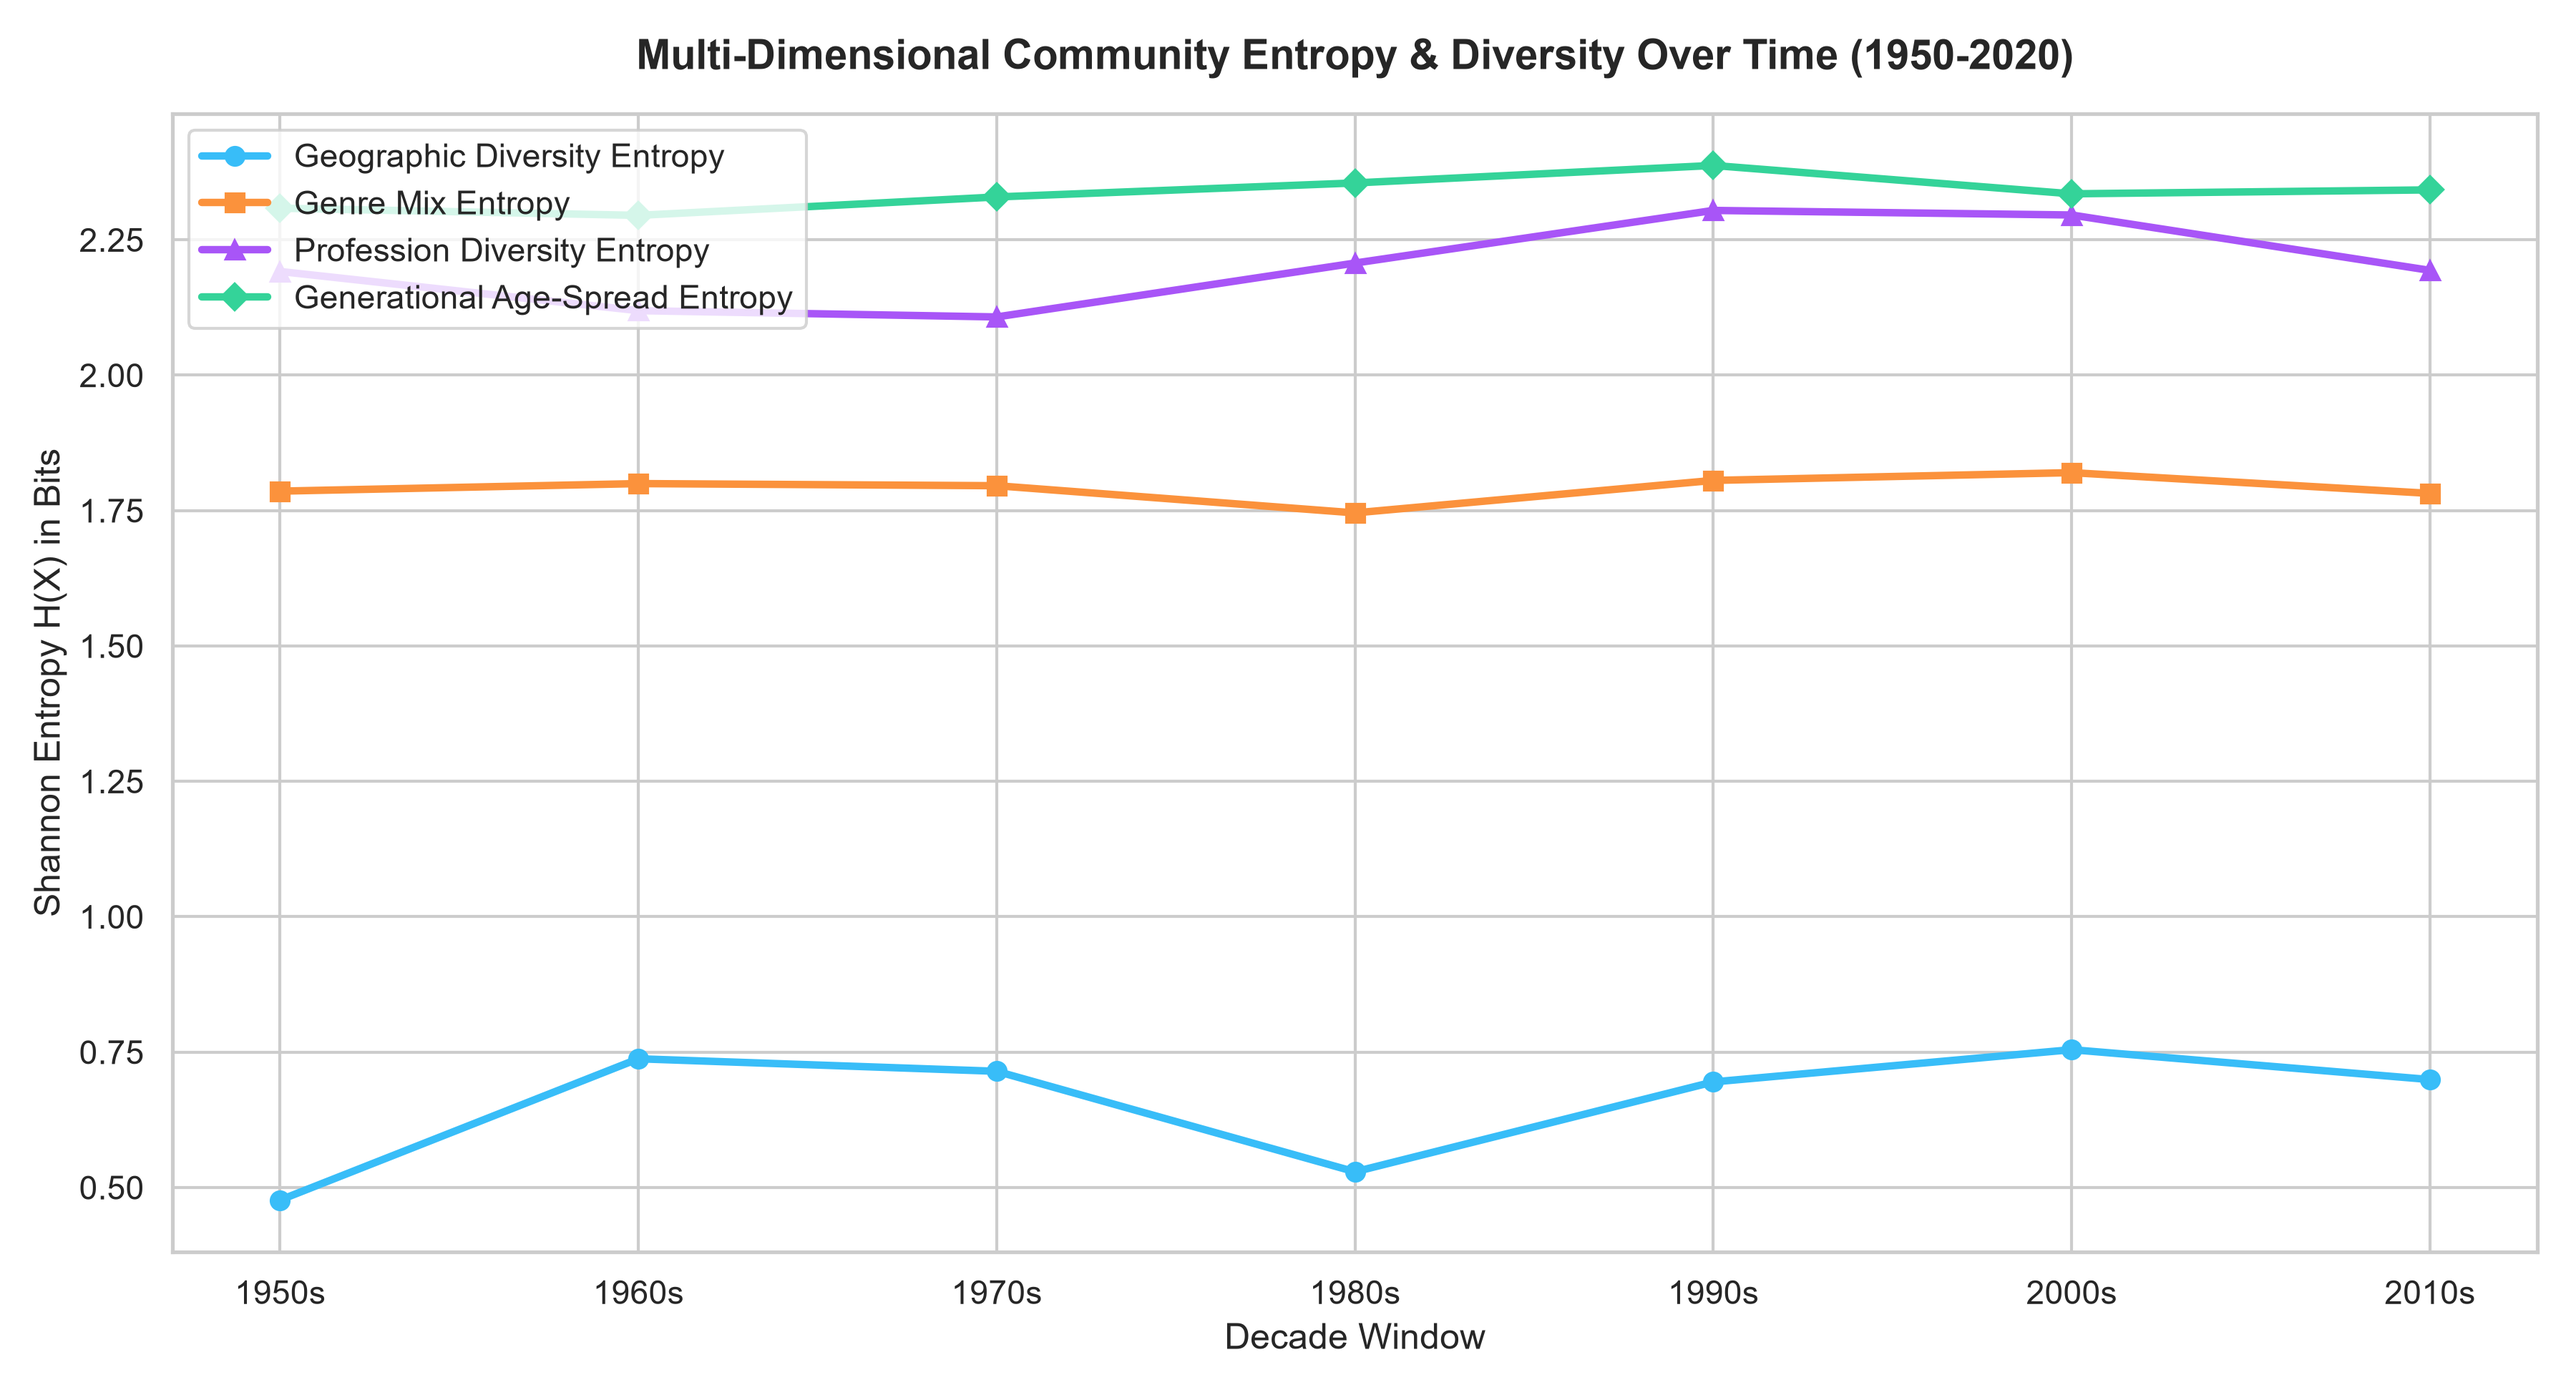
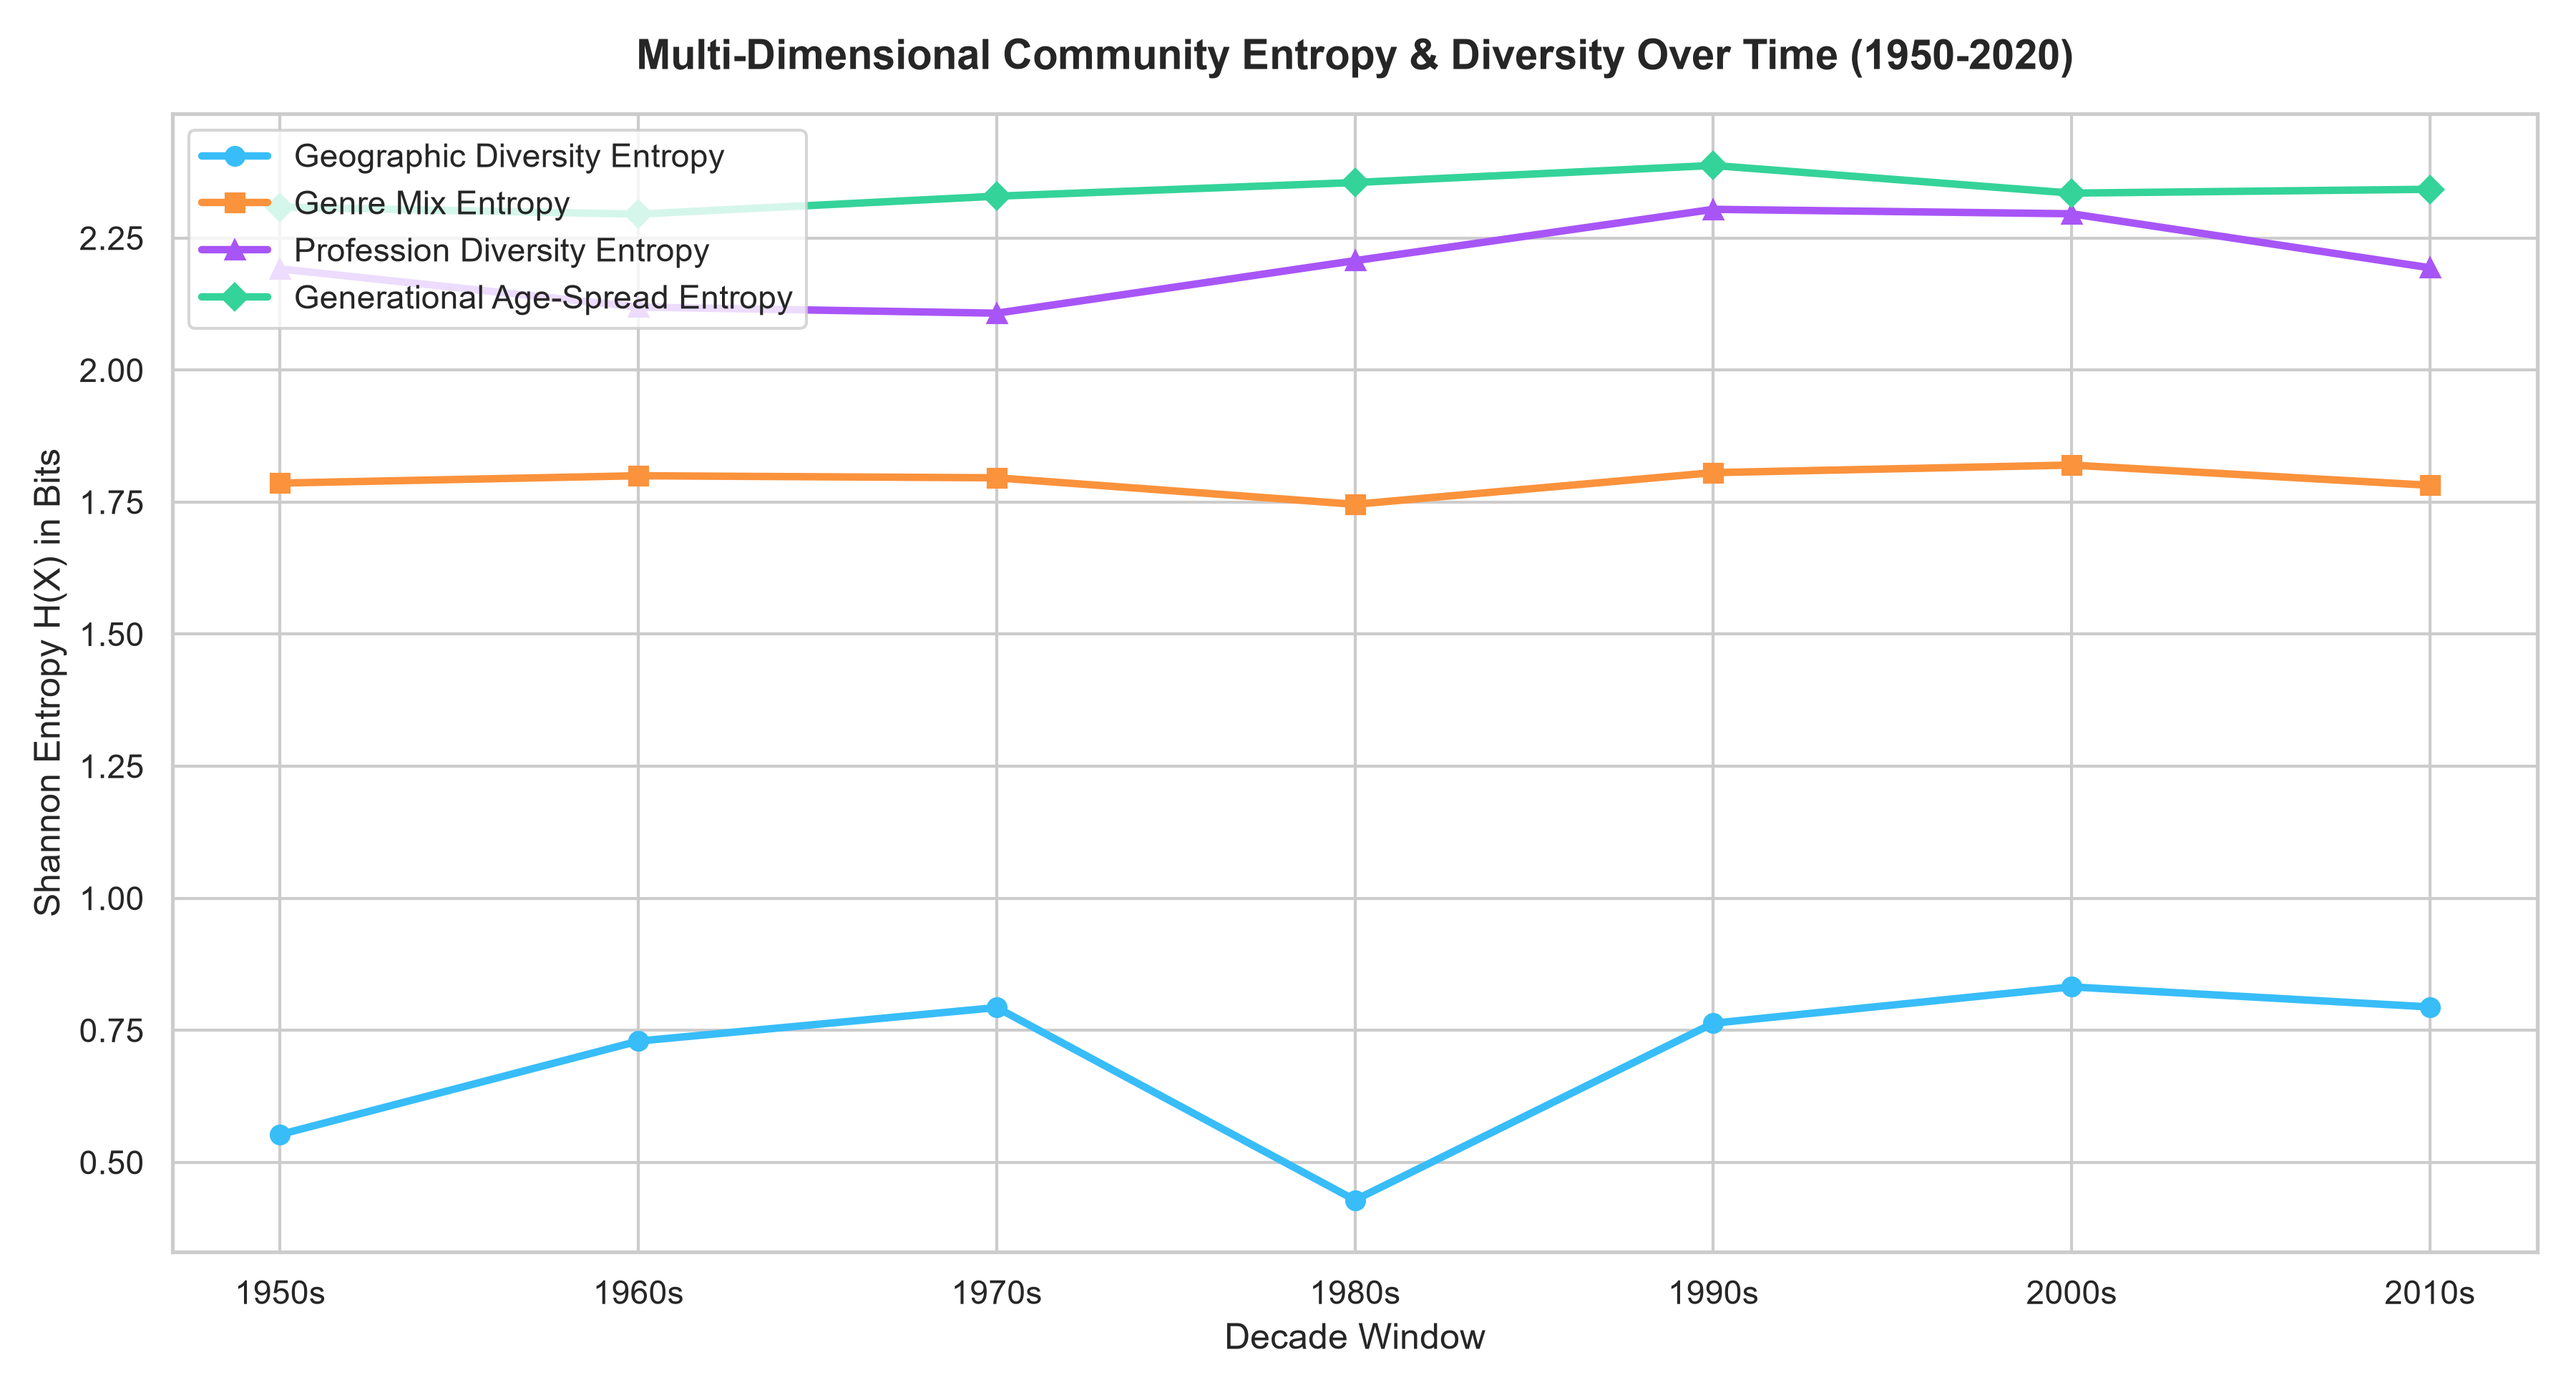
Add 1994 median actor comparison visualization
- Implemented generate_median_comparison_1994 in generate_pdf_visualizations.py to compare true median actors, most popular actors, and Kevin Bacon for the 1900-1994 'Six Degrees' era.

- Updated entropy_graph.png.

- Added the generated median_comparison_1994.png output graph.

diff --git a/final_submission/generate_pdf_visualizations.py b/final_submission/generate_pdf_visualizations.py
@@ -195,8 +195,77 @@ def generate_median_comparison():
     plt.close()
     print("Saved median_comparison.png")
 
+def generate_median_comparison_1994():
+    print("Generating Median Actor Comparison (1900-1994: Six Degrees Era)...")
+    url = "http://127.0.0.1:8000/api/median_actors"
+    payload = {
+        "start_year": None,
+        "end_year": 1994,
+        "top_k": 5
+    }
+    
+    print("Requesting 1994 median data from backend...")
+    try:
+        res = requests.post(url, json=payload)
+        res.raise_for_status()
+        data = res.json()
+    except Exception as e:
+        print(f"Failed to get 1994 data from API, running fallback calculation: {e}")
+        try:
+            clusterer = CommunityClusterer()
+            data = clusterer.calculate_median_actors(start_year=None, end_year=1994, top_k=5)
+        except Exception as ex:
+            print(f"Fallback failed: {ex}")
+            return
+        
+    top_median = data["top_medians"][0] if data.get("top_medians") else None
+    top_popular = data["top_popular"][0] if data.get("top_popular") else None
+    kevin = data.get("kevin_bacon")
+    
+    if not (top_median and top_popular and kevin):
+        print("Missing required actor data for 1994 comparison.")
+        return
+        
+    actors = [
+        {"Category": "True Median (Network Center)", "Name": top_median["name"], "Closeness": top_median["closeness"], "Avg Path": top_median["avg_path"], "Co-Stars": top_median["direct_co_stars"]},
+        {"Category": "Most Popular (1994 Era)", "Name": top_popular["name"], "Closeness": top_popular["closeness"], "Avg Path": top_popular["avg_path"], "Co-Stars": top_popular["direct_co_stars"]},
+        {"Category": "The Benchmark", "Name": kevin["name"], "Closeness": kevin["closeness"], "Avg Path": kevin["avg_path"], "Co-Stars": kevin["direct_co_stars"]}
+    ]
+    
+    df = pd.DataFrame(actors)
+    
+    fig, axes = plt.subplots(1, 3, figsize=(15, 6))
+    fig.suptitle('Actor Centrality Comparison (Six Degrees Era: 1900-1994)', fontsize=16, fontweight='bold')
+    
+    colors = ['#34d399', '#38bdf8', '#fb923c']
+    
+    sns.barplot(ax=axes[0], data=df, x='Category', y='Closeness', palette=colors)
+    axes[0].set_title('Closeness Centrality (Higher is Better)')
+    axes[0].set_ylabel('Closeness')
+    axes[0].tick_params(axis='x', rotation=15)
+    
+    sns.barplot(ax=axes[1], data=df, x='Category', y='Avg Path', palette=colors)
+    axes[1].set_title('Average Path Length μ (Lower is Better)')
+    axes[1].set_ylabel('Degrees of Separation')
+    axes[1].tick_params(axis='x', rotation=15)
+    
+    sns.barplot(ax=axes[2], data=df, x='Category', y='Co-Stars', palette=colors)
+    axes[2].set_title('Direct Co-Stars (1-Hop Reach)')
+    axes[2].set_ylabel('Count')
+    axes[2].tick_params(axis='x', rotation=15)
+    
+    for ax in axes:
+        for i, row in df.iterrows():
+            ax.text(i, ax.patches[i].get_height()/2, row['Name'], color='white', ha='center', va='center', fontweight='bold', fontsize=10, rotation=90)
+            
+    plt.tight_layout()
+    plt.savefig(script_dir / 'median_comparison_1994.png', dpi=300)
+    plt.close()
+    print("Saved median_comparison_1994.png")
+
 if __name__ == "__main__":
     generate_entropy_graph()
     generate_popular_actors_timeline()
     generate_median_comparison()
+    generate_median_comparison_1994()
     print("All visualizations generated successfully.")
